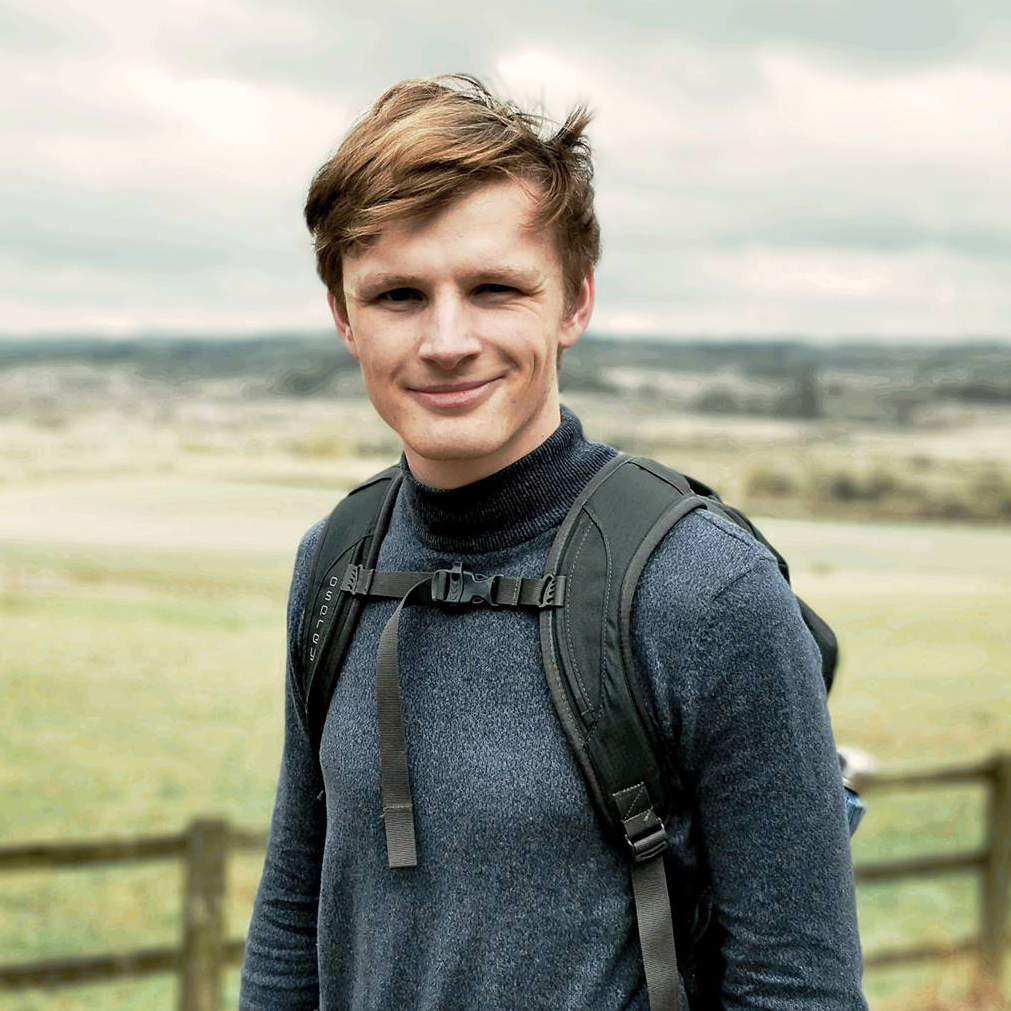
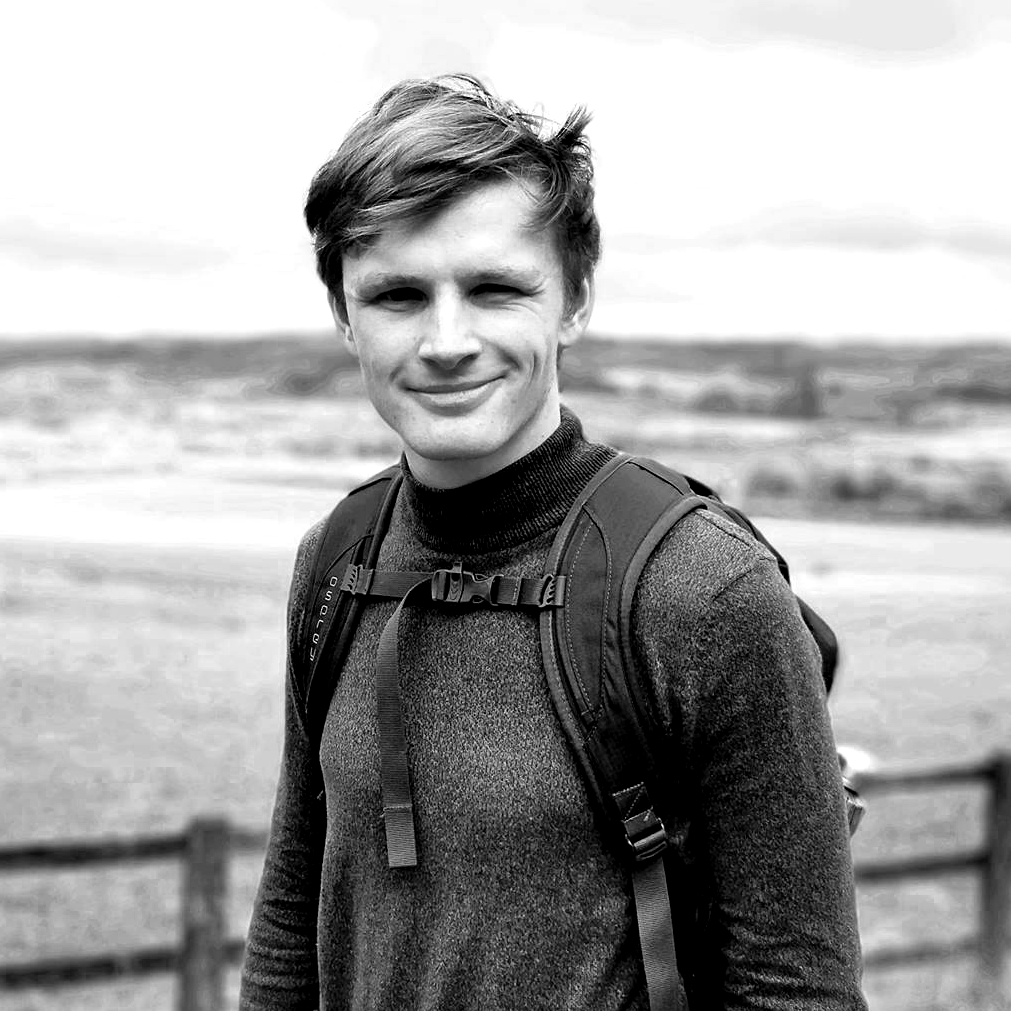
Monochrome

diff --git a/_sass/_variables.scss b/_sass/_variables.scss
@@ -60,7 +60,7 @@ $code-background-color-dark : $light-gray;
 $text-color                 : $dark-gray;
 $border-color               : $dark-gray;
 
-$primary-color              : #325f8c;
+$primary-color              : #000;
 $success-color              : #62c462;
 $warning-color              : #f89406;
 $danger-color               : #ee5f5b;
